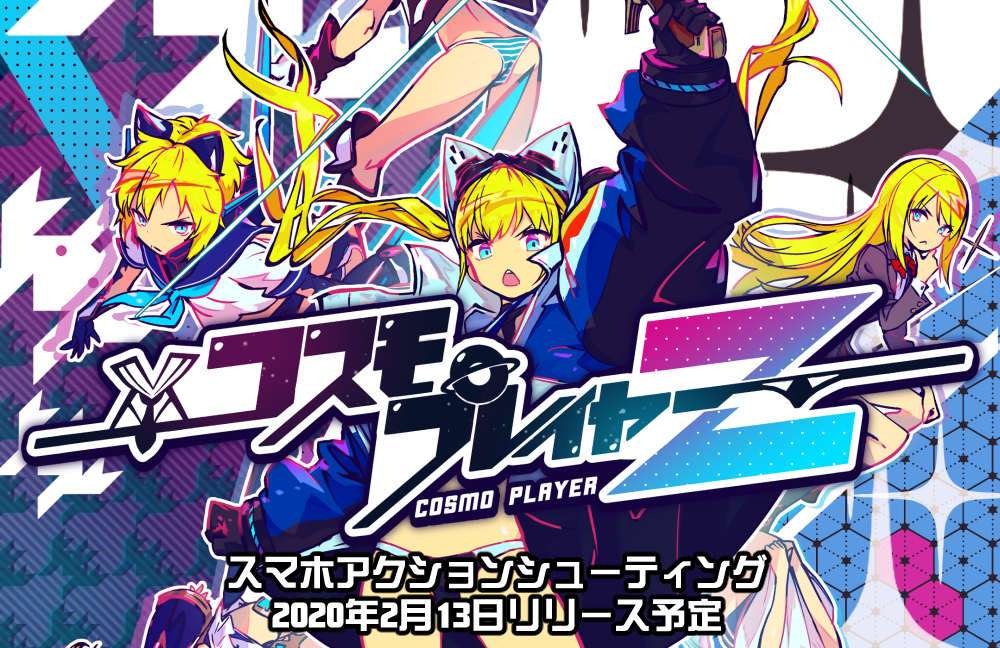
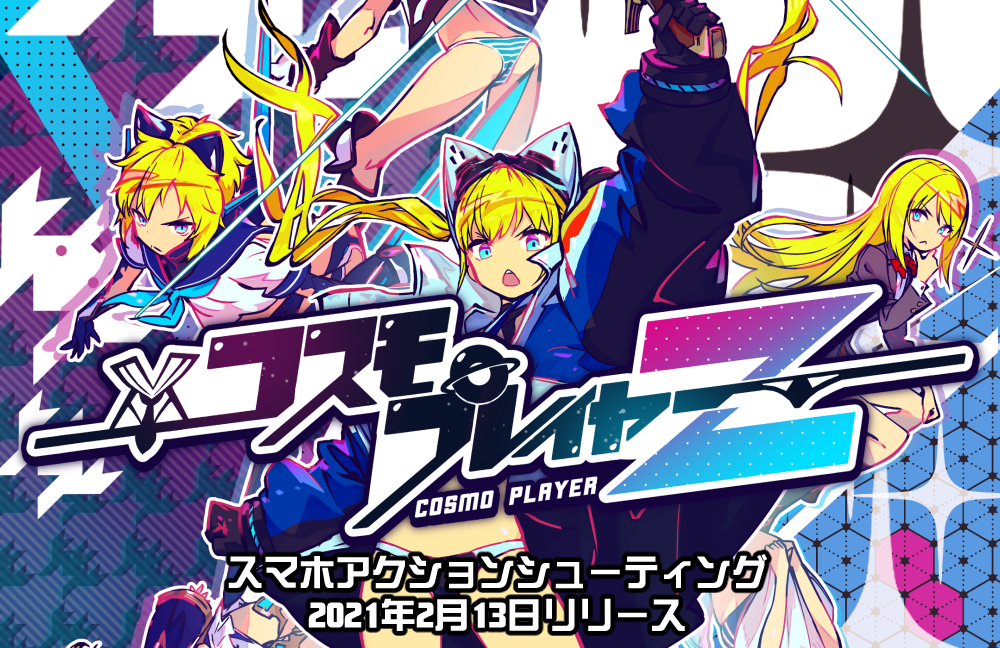
release

Changed region(s): [[0.341, 0.8951, 0.744, 0.9877], [0.248, 0.9259, 0.31, 0.9877]]

diff --git a/index.html b/index.html
@@ -36,10 +36,12 @@
 							<li><a href="#sec02">SCREEN SHOT</a></li>
 							<li><a href="#sec03">NEWS</a></li>
 							<li><a href="#sec04">INFO</a></li>
+							<li><a href="https://apps.apple.com/us/app/%E3%82%B3%E3%82%B9%E3%83%A2%E3%83%97%E3%83%AC%E3%82%A4%E3%83%A4%E3%83%BCz/id1544651033" target="_blank"><img src="images/appstore.svg"></a></li>
 						</ul>
 						<ul id="sns">
 							<li><a href="https://twitter.com/sommit_games" target="_blank"><img src="images/iconTw.png" width="20" height="20" alt="twitter"></a></li>
 						</ul>
+
 					</div>
 				</nav>
 			</div>
@@ -86,6 +88,12 @@
 					<h2><span>NEWS</span></h2>
 				</header>
 				<div class="inner">
+
+					<div class="article">
+						<img src="images/mainImg.jpg" width="370" height="224">
+						<p>2021年2月13日（土）iOS版をリリースしました！　<a href="https://apps.apple.com/us/app/%E3%82%B3%E3%82%B9%E3%83%A2%E3%83%97%E3%83%AC%E3%82%A4%E3%83%A4%E3%83%BCz/id1544651033">App Store</a>からダウンロードすることができます！　</p>
+					</div>
+
 					<div class="article">
 						<a href="http://digigame-expo.org/"><img src="images/dg2020-logo.jpg" width="370" height="224" alt="デジゲー博2020"></a>
 						<p>2020年11月29日（日）に秋葉原UDXで開催される<a href="http://digigame-expo.org/">デジゲー博2020</a>に参加します。開発中のコスモプレイヤーZの試遊展示を行いますので、ご来場の際にはぜひともお立ち寄りください。</p>
@@ -108,22 +116,30 @@
 						<p>
 							タイトル　：　コスモプレイヤーZ</br>
 							ジャンル　：　スマホアクションシューティング</br>
-							配信日　：　2021年春予定</br>
+							配信日　：　iOS 2021年2月13日　Android 近日公開予定</br>
 							プラットフォーム　：　Android/iOS</br>
 						</br></p>
 
-<p>SOMMIT GAMESは主にスマートフォン向けのゲームを開発するチームです。現在はスマホアクションシューティングゲーム「コスモプレイヤーZ」を鋭意製作中。</p>
-<p>プライバシーポリシーは<a href="./privacypolicy.html">こちら</a></p>
+
+<p>SOMMIT GAMESは主にスマートフォン向けのゲームを開発するチームです。現在はスマホアクションシューティングゲーム「コスモプレイヤーZ」を鋭意製作中。プライバシーポリシーは<a href="./privacypolicy.html">こちら</a></p>
 <p><a href="https://twitter.com/sommit_games" target="_blank"><img src="images/iconTw.png" width="20" height="20" alt="twitter"></a>最新情報は<a href="https://twitter.com/sommit_games" target="_blank">Twitter</a>にて配信しています</p>
 						<!-- Store URL -->
-					
+<p></br>
+					<a href="https://apps.apple.com/us/app/%E3%82%B3%E3%82%B9%E3%83%A2%E3%83%97%E3%83%AC%E3%82%A4%E3%83%A4%E3%83%BCz/id1544651033" target="_blank"><img src="images/appstore.svg"></a>
+</br></p>
+
+<p><font size="1">※AppleとAppleのロゴは、米国およびその他の国で登録されたApple Inc.の商標です。</br>
+<!-- ※Google Play および Google Play ロゴは、Google LLC の商標です。 --></font></p>
+
+
+
 				</div>
 
 			</section>
 			<!-- // INFO -->
 
 			<footer id="footer">
-				Copyright(c) 2020 SOMMIT GAMES. All Rights Reserved.</br> Design by <a href="http://f-tpl.com" target="_blank">http://f-tpl.com</a><!-- ←クレジット表記を外す場合はシリアルキーが必要です http://f-tpl.com/credit/ -->
+				Copyright(c) 2021 SOMMIT GAMES. All Rights Reserved.</br> Design by <a href="http://f-tpl.com" target="_blank">http://f-tpl.com</a><!-- ←クレジット表記を外す場合はシリアルキーが必要です http://f-tpl.com/credit/ -->
 			</footer>
 
 		</div>
